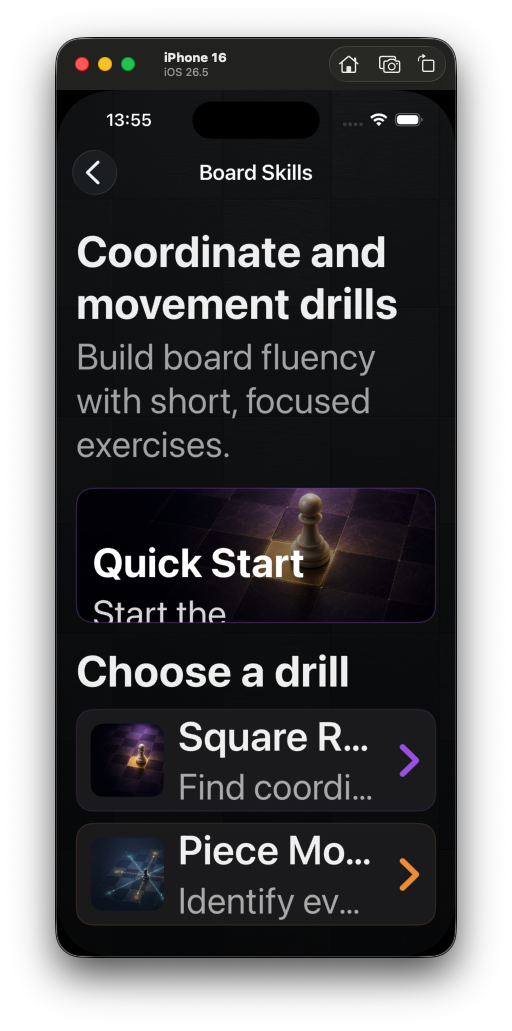
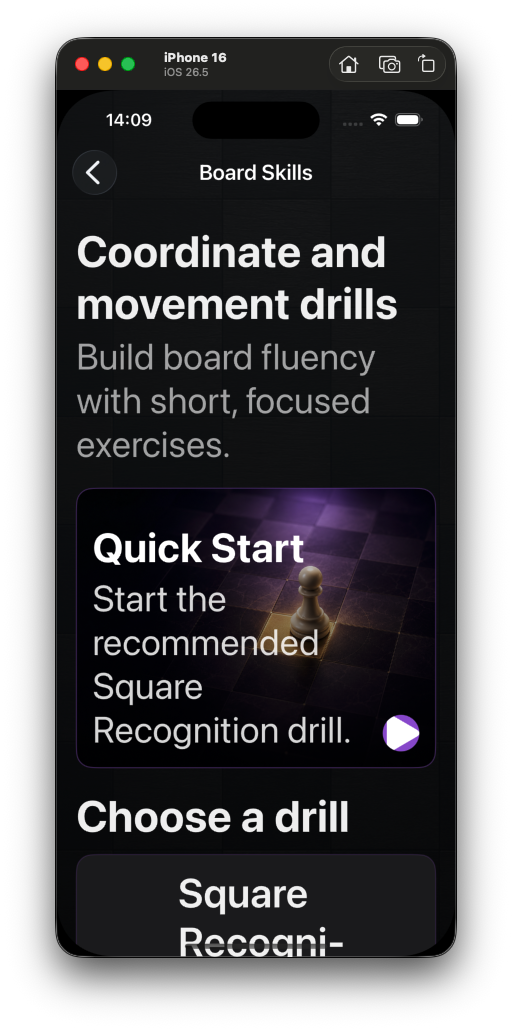
Record refreshed accessibility screenshots

Changed region(s): [[0.125, 0.4656, 0.875, 0.9311], [0.2188, 0.0931, 0.3125, 0.1242], [0.7812, 0.838, 0.8125, 0.8691]]

diff --git a/docs/ui-consistency-audit.md b/docs/ui-consistency-audit.md
@@ -8,7 +8,7 @@ Release target: `3.0.1` build `1`
 
 This audit reviews release readiness from source inspection, existing regression coverage, Xcode MCP build/test results, and the Home/Board Skills validation baseline in `docs/manual-testing/home-board-skills-responsive-validation.md`.
 
-Home and Board Skills rendered screenshots were inspected from `docs/manual-testing/screenshots/home-board-skills/2026-08-23/`. Default Dynamic Type cases passed. Accessibility Dynamic Type captures exposed clipping and need to be regenerated after the layout fix.
+Home and Board Skills rendered screenshots were inspected from `docs/manual-testing/screenshots/home-board-skills/2026-08-23/`. Default Dynamic Type cases passed. The refreshed Home accessibility screenshot passed. The refreshed Board Skills accessibility screenshot passed for the header and Quick Start, but the drill rows need a scrolled accessibility capture before the row-specific criteria can be closed.
 
 ## Release Decision
 
@@ -17,7 +17,7 @@ Status: Not ready to publish.
 Reasons:
 
 - App Store versioning has been corrected to `3.0.1`, but the correction still needs an archive/upload validation.
-- CN-SPEC-0026 and CN-SPEC-0027 remain `Proposed` because accessibility Dynamic Type screenshot evidence failed before the current layout fix.
+- CN-SPEC-0026 and CN-SPEC-0027 remain `Proposed` because Board Skills still needs scrolled accessibility screenshot evidence for the drill rows.
 - App-wide visual review is source/test-based in this pass; device screenshots and physical-device checks remain required.
 
 ## Automated Evidence
@@ -37,10 +37,10 @@ Reasons:
 
 | Area | Screens Reviewed | Source/Test Evidence | Status |
 | --- | --- | --- | --- |
-| Home / families | Home, Board Skills, Instructions card, Settings toolbar | `RestoredHomeView.swift`, `HomeTileLayoutRegressionTests`, `HomeUITests`, inspected screenshots | Default screenshots pass; accessibility screenshot failed before current fix. |
+| Home / families | Home, Board Skills, Instructions card, Settings toolbar | `RestoredHomeView.swift`, `HomeTileLayoutRegressionTests`, `HomeUITests`, inspected screenshots | Default screenshots pass; refreshed Home accessibility screenshot passes. |
 | Notation | Game library, filters/search, full-game training, results, notation history | `HomeView.swift`, `GameTrainingView.swift`, `ResultsView.swift`, existing UI/integration tests | Usable; family-screen ownership remains incomplete against CN-SPEC-0026. |
 | Timed | Timed setup, timed gameplay, timed results/history | `TimedGameConfigurationView` in `HomeView.swift`, `GameTrainingView.swift`, `ResultsView.swift`, timed tests | Usable; family-screen ownership remains incomplete against CN-SPEC-0026. |
-| Board Skills | Board Skills family, Square Recognition setup/game/results/history, Piece Movement game/results | `RestoredHomeView.swift`, `SquareRecognitionViews.swift`, `PieceMovementFeature.swift`, Home UI tests, inspected screenshots | Default screenshots pass; accessibility screenshot failed before current fix. |
+| Board Skills | Board Skills family, Square Recognition setup/game/results/history, Piece Movement game/results | `RestoredHomeView.swift`, `SquareRecognitionViews.swift`, `PieceMovementFeature.swift`, Home UI tests, inspected screenshots | Default screenshots pass; refreshed accessibility screenshot confirms Quick Start but not full drill rows. |
 | Recall | Position Recall launcher/game/results | `RestoredHomeView.swift`, `PositionRecallReconstructionView.swift`, recall tests | Gameplay works; family-screen hierarchy is incomplete. |
 | Utilities | Settings, appearance/board settings, Instructions, SAN guide, insights model surface | `AppearanceSettingsView.swift`, `InstructionsView.swift`, `TrainingInsightsFeature.swift` | No blocker found by source audit; rendered review pending. |
 
@@ -48,7 +48,7 @@ Reasons:
 
 | ID | Screen | Device | Severity | Category | Issue | Evidence | Owning Spec | Recommended Fix | Status | Commit |
 | --- | --- | --- | --- | --- | --- | --- | --- | --- | --- | --- |
-| UIAUD-001 | Home / Board Skills | Device matrix | High | Release evidence | Required rendered screenshot matrix has default-size PASS evidence, but accessibility Dynamic Type screenshots failed before the current layout fix, so CN-SPEC-0026 and CN-SPEC-0027 cannot be accepted yet. | `docs/manual-testing/home-board-skills-responsive-validation.md`; `docs/manual-testing/screenshots/home-board-skills/2026-08-23/home-iphone-16-portrait-accessibility.png`; `docs/manual-testing/screenshots/home-board-skills/2026-08-23/board-skills-iphone-16-portrait-accessibility.png`. | CN-SPEC-0026, CN-SPEC-0027 | Regenerate and inspect Home and Board Skills accessibility screenshots after the layout fix. | Open | Pending |
+| UIAUD-001 | Home / Board Skills | Device matrix | Medium | Release evidence | Required rendered screenshot matrix has default-size PASS evidence and refreshed Home accessibility PASS evidence, but Board Skills still lacks a scrolled accessibility screenshot showing the full drill rows. | `docs/manual-testing/home-board-skills-responsive-validation.md`; `docs/manual-testing/screenshots/home-board-skills/2026-08-23/board-skills-iphone-16-portrait-accessibility.png`. | CN-SPEC-0026, CN-SPEC-0027 | Capture and inspect a scrolled Board Skills accessibility screenshot showing both drill rows. | Open | Pending |
 | UIAUD-002 | Validation tooling | Local shell | Medium | Release validation | Shell `xcodebuild` cannot access the requested `iPhone 16` simulator in this environment, blocking the exact commands listed in the release prompt. | `xcodebuild` exited 70 and listed only placeholder simulator destinations from the shell; Xcode MCP tests passed. | CN-SPEC-0027 | Run the same commands on a local machine with visible simulator runtimes, or add CI/device workflow support for rendered validation. | Open | N/A |
 | UIAUD-003 | Home / Position Recall | All | High | Navigation hierarchy | Position Recall is a primary Home family tile but currently launches directly into beginner reconstruction gameplay rather than a family screen with summary, Quick Start, choices, and secondary actions. | `RestoredHomeView.swift` routes `home.positionRecallLink` to `PositionRecallLauncherView()`. | CN-SPEC-0026 | Add a Position Recall family screen or narrow CN-SPEC-0026 before acceptance. Preserve the existing beginner reconstruction Quick Start. | Open | N/A |
 | UIAUD-004 | Home / Notation and Timed | All | Medium | Navigation hierarchy | Notation Training and Timed Training primary family tiles route directly to `GameLibraryView` variants. This preserves current launch paths but does not present a distinct family screen with explicit Quick Start versus game choice. | `RestoredHomeView.swift` routes both tiles directly to `GameLibraryView`. | CN-SPEC-0026 | Decide whether `GameLibraryView` is the accepted family screen for these families and document/update tests, or add thin family wrappers with Quick Start and library entry points. | Open | N/A |
@@ -56,13 +56,13 @@ Reasons:
 | UIAUD-006 | Settings | iPhone/iPad | Low | Visual consistency | Settings theme cards use larger 18/20/22 corner radii while Home family cards use 16 and `PremiumDesign.Radius.large` is 8 elsewhere. This is visual inconsistency, not a release blocker. | `AppearanceSettingsView.swift`; `RestoredHomeView.swift`; `PremiumDesign.swift`. | None | Leave for polish unless repeated screenshot review shows hierarchy or clipping problems. | Open | N/A |
 | UIAUD-007 | Game training answer icons | Touch devices | Low | Accessibility/touch target | Inline answer backspace and submit icon frames are 28 x 28 inside a larger padded answer field. Effective touch target may be acceptable through padding, but rendered hit area should be verified. | `GameTrainingView.swift` icon frames at 28 x 28. | CN-SPEC-0022 | Confirm with rendered accessibility inspection; adjust only if hit target is actually below 44 x 44. | Open | N/A |
 | UIAUD-008 | Release build validation | Local shell | Medium | Release validation | Archive-oriented shell build could not complete in this environment. A writable DerivedData path avoided the first failure, but asset catalog compilation still failed because Xcode tooling could not access simulator runtime services. | `xcodebuild -project ChessNotation.xcodeproj -scheme ChessNotation -configuration Release -destination 'generic/platform=iOS' -derivedDataPath /tmp/ChessNotationDerivedData build` exited 65 in `CompileAssetCatalogVariant`. | Release checklist | Re-run the Release generic build or archive in Xcode/local shell with normal CoreSimulator and DerivedData access before submission. | Open | N/A |
-| UIAUD-009 | Home / Board Skills | iPhone 16 accessibility Dynamic Type | High | Accessibility typography | Accessibility Dynamic Type screenshots clipped important Home hero text and Board Skills Quick Start/drill row text. | `home-iphone-16-portrait-accessibility.png` shows hero title/subtitle truncation; `board-skills-iphone-16-portrait-accessibility.png` shows Quick Start and drill row truncation. | CN-SPEC-0027 | Allow Home hero text and Board Skills rows to grow vertically at accessibility Dynamic Type; recapture screenshots to confirm. | Fixed pending screenshot validation | Pending |
+| UIAUD-009 | Home / Board Skills | iPhone 16 accessibility Dynamic Type | High | Accessibility typography | Original accessibility Dynamic Type screenshots clipped important Home hero text and Board Skills Quick Start/drill row text. | Refreshed `home-iphone-16-portrait-accessibility.png` passes; refreshed `board-skills-iphone-16-portrait-accessibility.png` passes Quick Start but does not show full drill rows. | CN-SPEC-0027 | Capture a scrolled Board Skills accessibility screenshot showing both drill rows before closing the finding. | Fixed pending scrolled screenshot validation | `5bdc29c` |
 
 ## Category Notes
 
 ### Layout
 
-Home and Board Skills have strong source and frame-test coverage. Default-size rendered screenshots passed across the requested device classes. Accessibility Dynamic Type captures failed before the current layout fix and must be recaptured. Other gameplay surfaces are scroll-based and mostly use semantic fonts and system controls, but rendered iPad and accessibility Dynamic Type review is still required before release.
+Home and Board Skills have strong source and frame-test coverage. Default-size rendered screenshots passed across the requested device classes. The refreshed Home accessibility screenshot passed, and Board Skills accessibility Quick Start now passes; Board Skills drill rows still need scrolled screenshot evidence. Other gameplay surfaces are scroll-based and mostly use semantic fonts and system controls, but rendered iPad and accessibility Dynamic Type review is still required before release.
 
 ### Typography
 
@@ -82,11 +82,11 @@ Board Skills is the clearest family implementation. Position Recall, Notation Tr
 
 ### Accessibility
 
-Existing tests cover board-square semantics, Dynamic Type source guardrails, Reduce Motion feedback, and several UI flows. The Home/Board Skills accessibility screenshots found real clipping in fixed-height premium surfaces; the current fix removes those fixed-height caps at accessibility sizes and needs screenshot confirmation. The audit did not find hidden-answer leakage in Position Recall accessibility labels by source inspection; recall tests also cover study/answer state semantics.
+Existing tests cover board-square semantics, Dynamic Type source guardrails, Reduce Motion feedback, and several UI flows. The Home/Board Skills accessibility screenshots found real clipping in fixed-height premium surfaces; the current fix removes those fixed-height caps at accessibility sizes. Refreshed screenshots confirm Home and Board Skills Quick Start, with drill-row confirmation still pending. The audit did not find hidden-answer leakage in Position Recall accessibility labels by source inspection; recall tests also cover study/answer state semantics.
 
 ## Next Recommended Fixes
 
-1. Regenerate and inspect the Home and Board Skills accessibility Dynamic Type screenshots after the current layout fix.
+1. Capture and inspect a scrolled Board Skills accessibility Dynamic Type screenshot showing both drill rows.
 2. Decide whether to implement thin family screens for Position Recall, Notation Training, and Timed Training, or revise CN-SPEC-0026 to match the current hierarchy.
 3. Add explicit Done/Back to Games behavior for mini-game result screens once family ownership is finalized.
 4. Run Release generic build and archive/upload validation after version `3.0.1` is confirmed in an environment with normal CoreSimulator and DerivedData access.

diff --git a/docs/manual-testing/home-board-skills-responsive-validation.md b/docs/manual-testing/home-board-skills-responsive-validation.md
@@ -11,7 +11,7 @@ This record tracks CN-SPEC-0026 and CN-SPEC-0027 rendered validation for Home an
 
 Automated source, asset, build, and Xcode-runner checks passed on 2026-08-23. Manually captured screenshots were inspected from `docs/manual-testing/screenshots/home-board-skills/2026-08-23/`.
 
-Default Dynamic Type screenshots pass the Home and Board Skills rendered acceptance checks. The accessibility Dynamic Type screenshots exposed text clipping in the Home hero and Board Skills drill hierarchy. A code fix has been applied after the captured screenshots, so the accessibility cases must be recaptured and reinspected before CN-SPEC-0026 or CN-SPEC-0027 can be marked Accepted.
+Default Dynamic Type screenshots pass the Home and Board Skills rendered acceptance checks. The refreshed Home accessibility Dynamic Type screenshot passes. The refreshed Board Skills accessibility screenshot confirms the Quick Start clipping fix, but the drill rows are partly below the bottom of the viewport and need a scrolled accessibility capture before the row-specific criteria can be accepted.
 
 ## Baseline Commands
 
@@ -48,7 +48,7 @@ Default Dynamic Type screenshots pass the Home and Board Skills rendered accepta
 | HBV-003 | Pro Max-class | Portrait | Default | Manual simulator screenshot | PASS | `docs/manual-testing/screenshots/home-board-skills/2026-08-23/home-iphone-pro-max-portrait-default.png`; `docs/manual-testing/screenshots/home-board-skills/2026-08-23/board-skills-iphone-pro-max-portrait-default.png` | None found. | N/A | N/A |
 | HBV-004 | iPad | Portrait | Default | Manual simulator screenshot | PASS | `docs/manual-testing/screenshots/home-board-skills/2026-08-23/home-ipad-portrait-default.png`; `docs/manual-testing/screenshots/home-board-skills/2026-08-23/board-skills-ipad-portrait-default.png` | None found. | N/A | N/A |
 | HBV-005 | iPad | Landscape | Default | Manual simulator screenshot | PASS | `docs/manual-testing/screenshots/home-board-skills/2026-08-23/home-ipad-landscape-default.png`; `docs/manual-testing/screenshots/home-board-skills/2026-08-23/board-skills-ipad-landscape-default.png` | None found. | N/A | N/A |
-| HBV-006 | iPhone 16-class | Portrait | Accessibility size | Manual simulator screenshot | FAIL | `docs/manual-testing/screenshots/home-board-skills/2026-08-23/home-iphone-16-portrait-accessibility.png`; `docs/manual-testing/screenshots/home-board-skills/2026-08-23/board-skills-iphone-16-portrait-accessibility.png` | Home hero title/subtitle truncate; Board Skills Quick Start and drill row text truncate. Fixed in working tree; recapture required. | High | Pending |
+| HBV-006 | iPhone 16-class | Portrait | Accessibility size | Manual simulator screenshot | PARTIAL | `docs/manual-testing/screenshots/home-board-skills/2026-08-23/home-iphone-16-portrait-accessibility.png`; `docs/manual-testing/screenshots/home-board-skills/2026-08-23/board-skills-iphone-16-portrait-accessibility.png` | Home hero text passes. Board Skills Quick Start text passes. Board Skills drill rows require a scrolled screenshot because the first row is partly below the bottom of the viewport. | Medium | `5bdc29c` |
 
 ## Home Acceptance Checklist
 
@@ -62,7 +62,7 @@ Default Dynamic Type screenshots pass the Home and Board Skills rendered accepta
 | Consistent perceived artwork scale | PARTIAL | PASS | Source normalization validated; inspected screenshots show no disproportionate Position Recall zoom. |
 | No card intersection or touching | PASS | PASS | Home UI frame assertions; inspected screenshots. |
 | Visible horizontal and vertical gutters | PASS | PASS | Home UI frame assertions; inspected screenshots. |
-| No clipped or ellipsized important copy | PASS | FAIL | Accessibility screenshot shows hero title/subtitle truncation; fixed after capture and needs recapture. |
+| No clipped or ellipsized important copy | PASS | PASS | Refreshed Home accessibility screenshot shows complete hero title/subtitle and visible family-card copy. |
 | Hero below navigation/status safe area | PASS | PASS | Inspected screenshots. |
 | Settings does not float over hero | PASS | PASS | Inspected screenshots. |
 | Bounded centered width on iPad | PARTIAL | PASS | Source max-width guardrail; inspected iPad screenshots. |
@@ -80,13 +80,13 @@ Default Dynamic Type screenshots pass the Home and Board Skills rendered accepta
 | Square Recognition and Piece Movement rows share width/height | PASS | PASS | Home UI frame assertions; inspected default screenshots. |
 | Rows align leading edges and preserve positive spacing | PASS | PASS | Home UI frame assertions; inspected screenshots. |
 | Rows have matching artwork dimensions | PASS | PASS | Source shared `FamilyGameRow`; inspected screenshots. |
-| Rows have no clipping or intersection | PASS | FAIL | Accessibility screenshot shows Quick Start and drill row text truncation; fixed after capture and needs recapture. |
+| Rows have no clipping or intersection | PASS | PARTIAL | Refreshed accessibility screenshot confirms Quick Start text is no longer clipped. Drill rows need a scrolled screenshot because they are partly below the viewport. |
 | No duplicate Home-style grid | PASS | PASS | Source regression guardrails; inspected screenshots. |
 | Bounded width on iPad | PARTIAL | PASS | Source max-width guardrail; inspected iPad screenshots. |
-| Dynamic Type remains usable | PARTIAL | FAIL | Accessibility screenshot shows text truncation; fixed after capture and needs recapture. |
+| Dynamic Type remains usable | PARTIAL | PARTIAL | Refreshed accessibility screenshot confirms the header and Quick Start remain usable; drill rows need a scrolled screenshot. |
 
 ## Decision
 
 CN-SPEC-0026 and CN-SPEC-0027 remain `Proposed`.
 
-Reason: automated evidence is strong and default-size rendered screenshots passed, but accessibility Dynamic Type rendered screenshots failed. The accessibility layout fix must be validated with fresh screenshots before acceptance.
+Reason: automated evidence is strong, default-size rendered screenshots passed, and the refreshed Home accessibility screenshot passed. Board Skills still needs a scrolled accessibility screenshot that shows the full Square Recognition and Piece Movement rows before the row-specific acceptance criteria can be closed.
